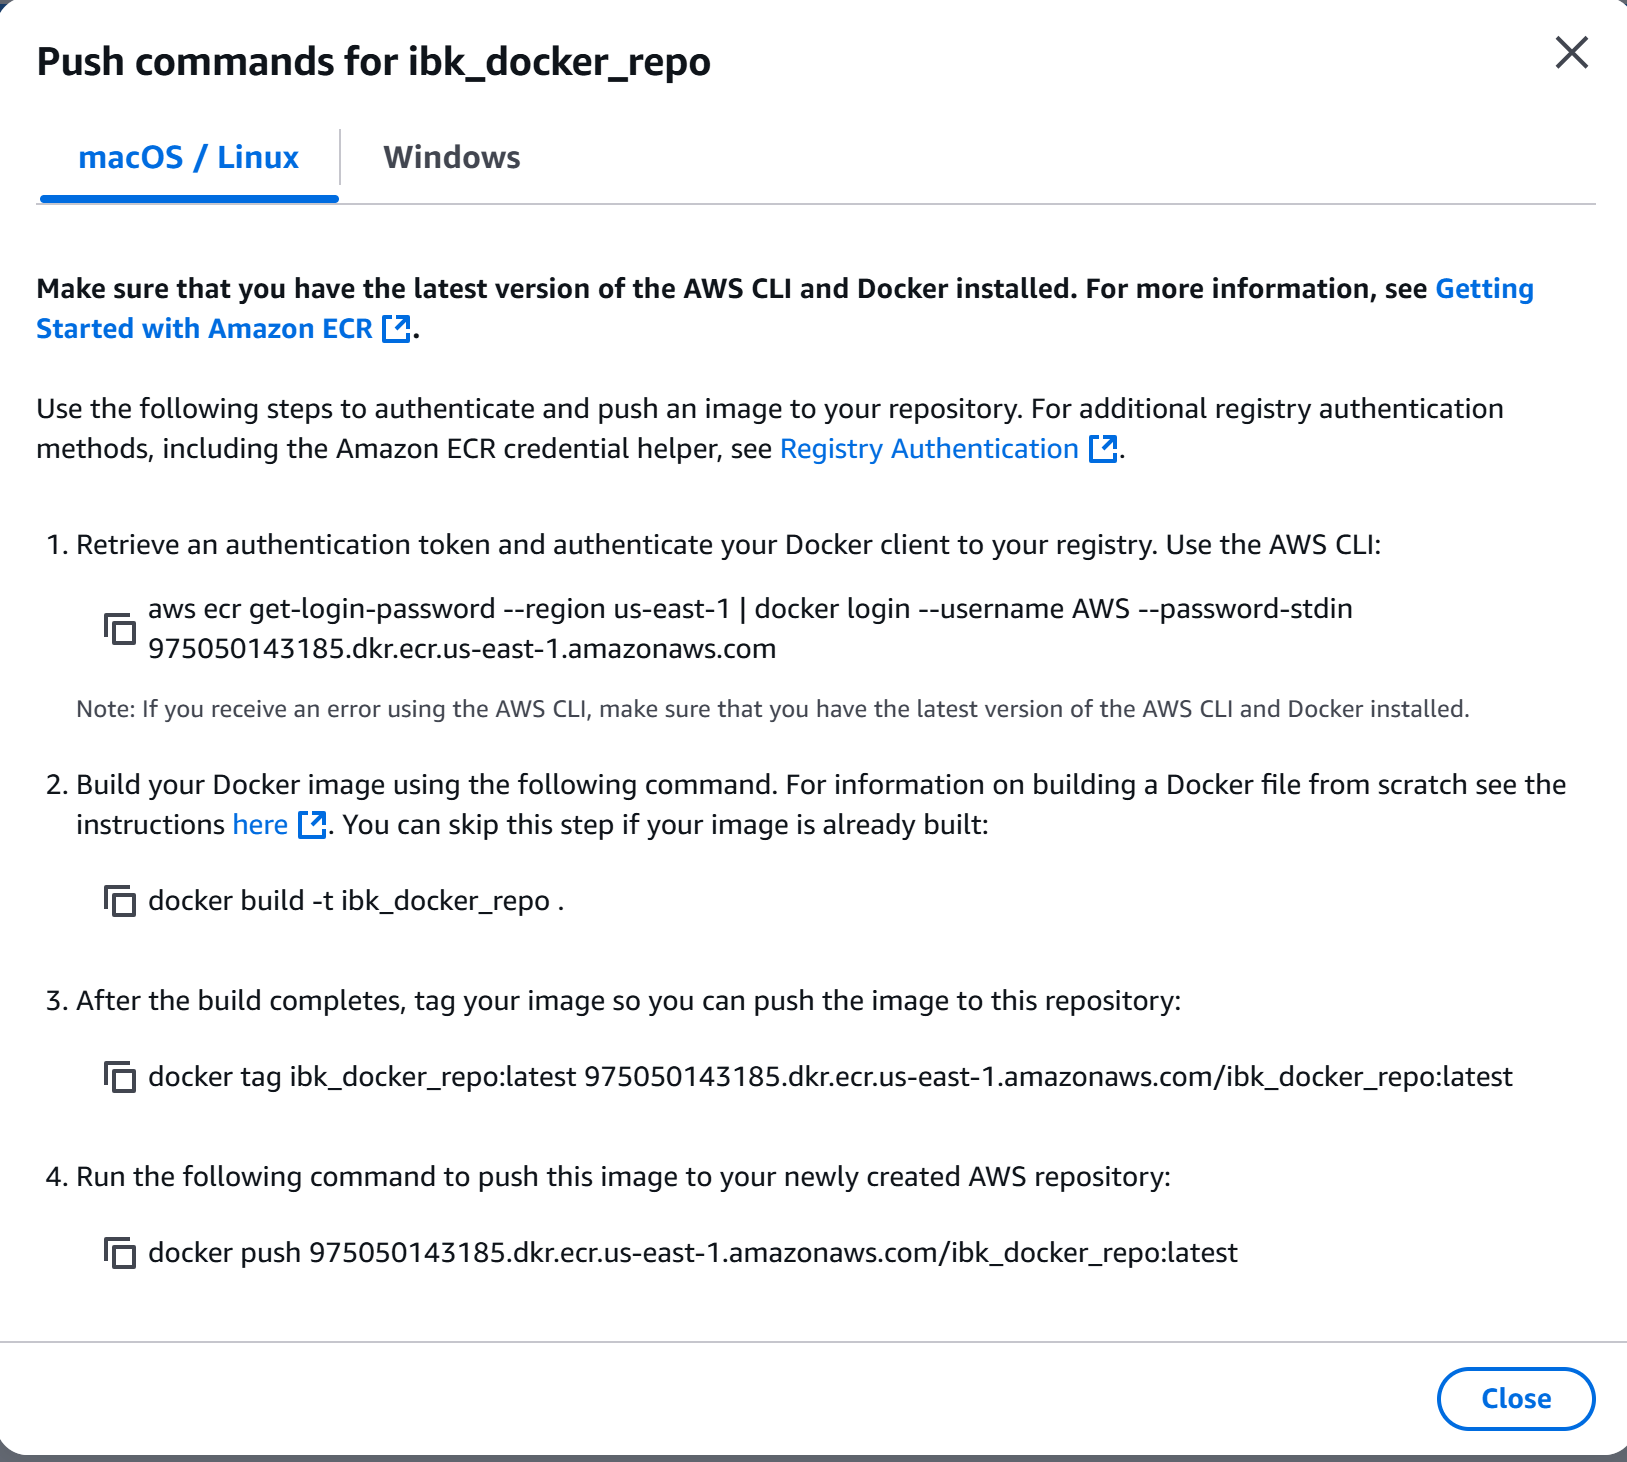
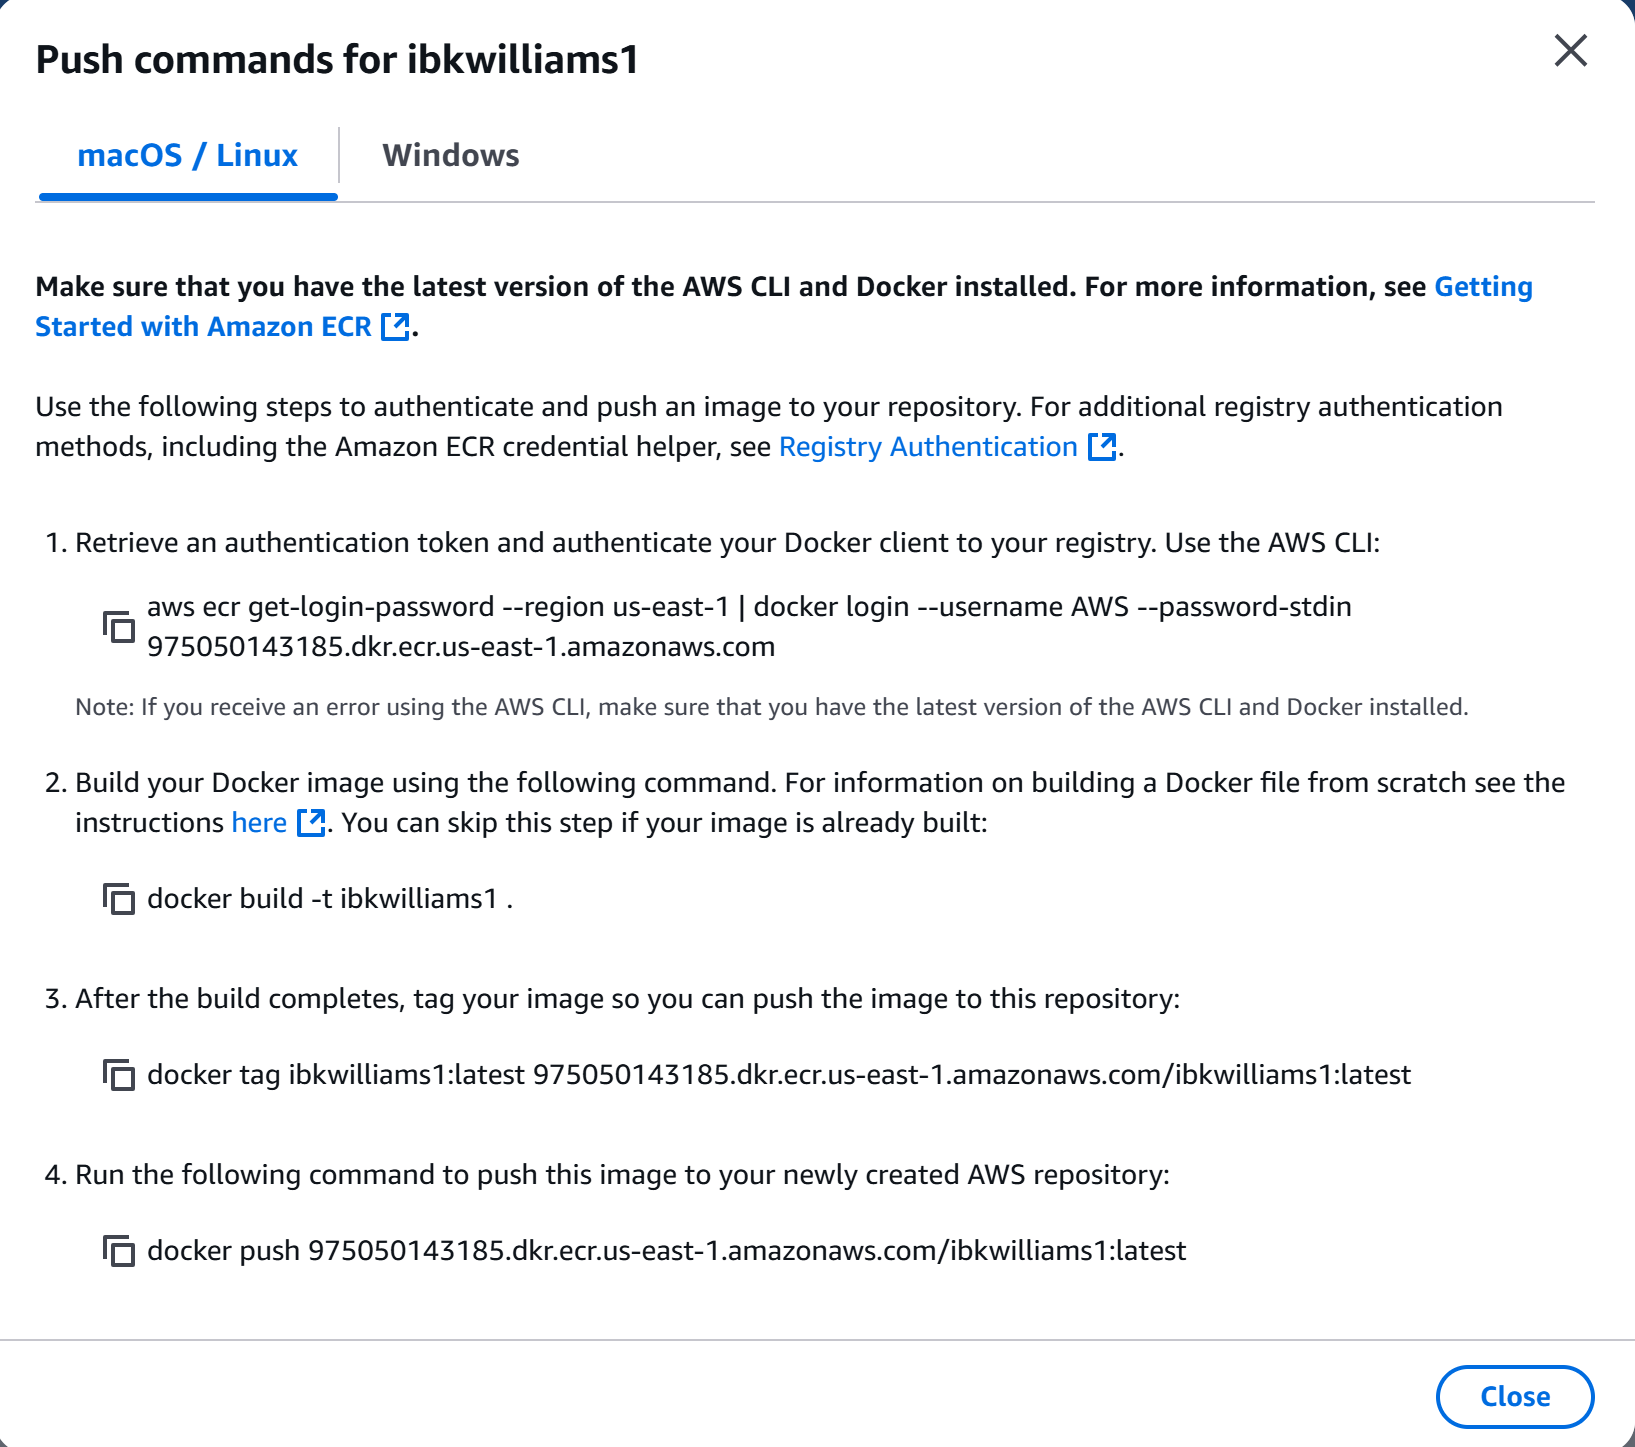
Dockerizing Node.js, Java and Golang app with best Pratices

diff --git a/README.md b/README.md
@@ -89,7 +89,8 @@ Use SSH to connect to your instance:
 ```bash
 ssh -i /path/to/your-key.pem ubuntu@<instance-public-ip>
 ```
-
+![instance_connect](images/instance_connect.png)
+![alt text](images/instance_terminal.png)
 ---
 
 ### **2. Set Up the Ubuntu Instance**
@@ -110,11 +111,12 @@ sudo apt update && sudo apt upgrade -y
    sudo systemctl start docker
    sudo systemctl enable docker
    ```
+   ![verify_docker](images/docker_enable.png)
 3. Verify Docker installation:
    ```bash
    docker --version
    ```
-
+    ![alt text](images/docker_verified.png)
 #### **Step 2.3: Install Docker Compose (Optional)**
 If needed, install Docker Compose:
 ```bash
@@ -135,54 +137,62 @@ npm -v
 ---
 
 ### **3. Prepare the Node.js Application**
+1. Create folder containing the application
+![node_folder](images/nodejs_folder.png)
+``cd`` into the application folder and create ```index.js```
+Paste the application code into the ```index.js```
+```script
+// index.js
+const http = require('http');
 
-#### **Step 3.1: Clone or Upload Your Application**
-Clone your Node.js application repository from GitHub or upload it to the instance:
-```bash
-git clone <your-repo-url> node-app
-cd node-app
+const server = http.createServer((req, res) => {
+    res.writeHead(200, {'Content-Type': 'text/plain'});
+    res.end('Hello sir, williams node container running!\n');
+});
+
+const PORT = 5000;
+server.listen(PORT, () => {
+    console.log(`Server running on port ${PORT}`);
+});
 ```
 
-#### **Step 3.2: Test the Application**
-1. Install dependencies:
-   ```bash
-   npm install
-   ```
 2. Start the application locally:
    ```bash
-   node app.js
+   node index.js
    ```
+    ![runing_node](images/running_node_app.png)
 3. Verify it's working by accessing the instance’s public IP and port in a browser:
    ```
    http://<instance-public-ip>:5000
    ```
-
+    ![alt text](images/running_node_onbrowser.png)
 ---
 
 ### **4. Write the Dockerfile**
 
 Create a `Dockerfile` in the Node.js application root directory:
 ```Dockerfile
-# Use an official Node.js runtime as the base image
-FROM node:18
+# Use the official Node.js image as the base
+FROM node:22-alpine
 
-# Set the working directory inside the container
-WORKDIR /app
+# Set the working directory
+WORKDIR /usr/src/app
 
-# Copy package.json and package-lock.json
+# Copy package.json and package-lock.json / copying the json package into the root folder of the container
 COPY package*.json ./
 
-# Install dependencies
-RUN npm install
+# Install dependence
+RUN npm ci --only=production
 
-# Copy the rest of the application
+
+# Copy application code /copying all the source code to the container root directory
 COPY . .
 
 # Expose the application port
 EXPOSE 5000
 
-# Define the command to run the application
-CMD ["node", "app.js"]
+# Start the application
+CMD ["node", "index.js"]
 ```
 
 ---
@@ -192,21 +202,21 @@ CMD ["node", "app.js"]
 #### **Step 5.1: Build the Docker Image**
 Run the following command in the application directory:
 ```bash
-docker build -t node-app:latest .
+sudo docker build -t node-app:latest .
 ```
-
+![building node-app images](<images/node-app docker-build.gif>)
 #### **Step 5.2: Run the Docker Container**
 Run the container and map port `5000` of the container to port `5000` on the host:
 ```bash
-docker run -d -p 5000:5000 node-app:latest
+sudo docker run -d -p 5000:5000 node-app:latest
 ```
-
+![alt text](images/docker_images.png)
 #### **Step 5.3: Verify the Application**
 Open your browser and access:
 ```
 http://<instance-public-ip>:5000
 ```
-
+![alt text](images/container_running.png)
 ---
 
 ### **6. Push the Docker Image to Docker Hub**
@@ -214,71 +224,200 @@ http://<instance-public-ip>:5000
 #### **Step 6.1: Log in to Docker Hub**
 Log in using your Docker Hub credentials:
 ```bash
-docker login
+sudo docker login
 ```
+Enter your Docker Hub username and password when prompted.
+
+![alt text](images/dockerhub_login.png)
 
 #### **Step 6.2: Tag the Docker Image**
 Tag the image with your Docker Hub username:
+Docker Hub requires images to be tagged with your ```username/repository-name```.
+
 ```bash
-docker tag node-app:latest your-dockerhub-username/node-app:latest
+sudo sudo docker tag node-app:latest your-dockerhub-username/node-app:latest
 ```
+![alt text](images/tag_images.png)
 
 #### **Step 6.3: Push the Image**
 Push the image to your Docker Hub repository:
 ```bash
-docker push your-dockerhub-username/node-app:latest
+sudo docker push your-dockerhub-username/node-app:v1.00
 ```
+![alt text](images/docker_push.png)
 
+Your image will now be available on Docker Hub.
+Verify the Image on Docker Hub:
+Log in to your Docker Hub account via the web interface to ensure the image is uploaded.
+
+![alt text](images/docker_hub.png)
 ---
 
 ### **7. Push the Docker Image to AWS ECR**
+To Push to Amazon ECR
+####  **1.    First, Set Up AWS CLI:**
+-   Install and configure the AWS CLI with your credentials:
+  Run the following command to download the zipped files of awscli
+    ```bash
+    curl "https://awscli.amazonaws.com/awscli-exe-linux-x86_64.zip" -o "awscliv2.zip"
+    ```
+    ![alt text](images/cli-step1.png)
+    ![alt text](images/cli-step2.png)
+    TO unzip the awscliv2.zip file; install unzip with the following command
+    ```bash
+    sudo apt install unzip -y
+    ```
+    Run the unzip command:
+    ```bash
+    unzip awscliv2.zip
+    ```
+    Run the following command to install the awscl
+    ```bash
+    sudo ./aws/install
+    ```
+    once you run the above command, you should get:
+    ![alt text](images/cli-step3.png)
+    ![alt text](images/cli-step4.png)
+![alt text](images/aws_access_key_generation-VEED.gif)
+    ```bash
+    aws configure
+    ```
+    ![alt text](images/aws_configure_detail.png)
+-   Provide your AWS access key, secret key, region, and output format from the downloaded access key.csv file
+####  **2.    Create an ECR Repository:**
+Follow the instructions for creating an ECR repository
+![alt text](images/ECR_CREATED.gif)
+
+```bash
+    aws configure
+ ```
+
 
 #### **Step 7.1: Authenticate Docker to AWS ECR**
 Get the ECR login command and authenticate:
+![alt text](images/push_command_AWS_ECR.png)
 ```bash
-aws ecr get-login-password --region <your-region> | docker login --username AWS --password-stdin <aws-account-id>.dkr.ecr.<your-region>.amazonaws.com
+aws ecr get-login-password --region us-east-1 | docker login --username AWS --password-stdin 975050143185.dkr.ecr.us-east-1.amazonaws.com
 ```
-
+![alt text](images/ECR_AUTHENTICATION.png)
 #### **Step 7.2: Tag the Docker Image**
 Tag the Docker image for your ECR repository:
 ```bash
-docker tag node-app:latest <aws-account-id>.dkr.ecr.<your-region>.amazonaws.com/node-app:latest
+docker tag ibkwilliams1:latest 975050143185.dkr.ecr.us-east-1.amazonaws.com/ibkwilliams1:1.0.0
 ```
 
+![alt text](images/image_4_ECR.png)
 #### **Step 7.3: Push the Image to ECR**
 Push the image to your ECR repository:
 ```bash
-docker push <aws-account-id>.dkr.ecr.<your-region>.amazonaws.com/node-app:latest
+docker push 975050143185.dkr.ecr.us-east-1.amazonaws.com/ibkwilliams1:1.0.0
 ```
 
+The image is pushed to the ECR repository
+![alt text](images/image_pushed_complete.png)
+
+![alt text](images/image_pushed_shown.png)
 ---
 
 ### **8. Run the Container from ECR**
 
 1. Pull the image from ECR:
    ```bash
-   docker pull <aws-account-id>.dkr.ecr.<your-region>.amazonaws.com/node-app:latest
+   docker pull 975050143185.dkr.ecr.us-east-1.amazonaws.com/ibkwilliams1:1.0.0
    ```
 2. Run the container:
+   To run the container in detached mode and expose it at port 3000, you can use the following docker run command:
    ```bash
-   docker run -d -p 5000:5000 <aws-account-id>.dkr.ecr.<your-region>.amazonaws.com/node-app:latest
+   docker run -d -p 3000:3000 975050143185.dkr.ecr.us-east-1.amazonaws.com/ibkwilliams1:1.0.0
    ```
+### Explanation:
+- `-d`: Runs the container in detached mode (in the background).
+- `-p 3000:3000`: Maps port `3000` on your local machine to port `3000` inside the container.
+- The image `975050143185.dkr.ecr.us-east-1.amazonaws.com/ibkwilliams1:1.0.0` is used to create the container.
+Before running this, ensure the image is pulled locally with the `docker pull` command if it isn’t already.
+---
+### **9. How to apply a lifecycle Policy on ECR Repository**
+#####   Step 1: Ensure AWS CLI is Installed and Configured
+
+1. Install the AWS CLI if not already installed:
+ ```bash
+   curl "https://awscli.amazonaws.com/awscli-exe-linux-x86_64.zip" -o "awscliv2.zip"
+unzip awscliv2.zip
+sudo ./aws/install
+```
+(For Windows, use the appropriate installer)
+
+2. Configure AWS CLI with your credentials:
+   
+```bash
+   aws configure
+```
+Provide your Access Key, Secret Key, Default Region, and Output Format.
 
 ---
 
-### **9. Automate Deployment (Optional)**
-
-- Use **Docker Compose** for multi-container setups.
-- Use **AWS ECS** for orchestrating Docker containers.
-
+##### Step 2: Save the Lifecycle Policy File
+Save the provided lifecycle policy to a file called lifecycle.json:
+```bash
+nano lifecycle.json
+```
+Paste the JSON content into the file and save it.
+```json
+{
+  "rules": [
+    {
+      "rulePriority": 1,
+      "description": "Retain only the 3 most recent tagged images",
+      "selection": {
+        "tagStatus": "tagged",
+        "countType": "imageCountMoreThan",
+        "countNumber": 3
+      },
+      "action": {
+        "type": "expire"
+      }
+    },
+    {
+      "rulePriority": 2,
+      "description": "Delete all untagged images",
+      "selection": {
+        "tagStatus": "untagged",
+        "countType": "imageCountMoreThan",
+        "countNumber": 0
+      },
+      "action": {
+        "type": "expire"
+      }
+    }
+  ]
+}
+```
 ---
 
-This step-by-step guide covers everything from preparing the AWS Ubuntu instance to deploying the Node.js application in a Docker container. Let me know if you need help automating these steps or setting up CI/CD pipelines!
-#### Steps to Dockerize a Node.js Application
-- Example file structure of node.js application
-```go
-node-app/
-├── app.js
-├── package.json
-└── package-lock.json
+#####   Step 3: Apply the Lifecycle Policy to the ECR Repository
+Use the following AWS CLI command to apply the lifecycle policy to your repository:
+```bash
+aws ecr put-lifecycle-policy \
+  --repository-name ibkwilliams1 \
+  --lifecycle-policy-text file://lifecycle.json
+```
+---
+##### Step 4: Verify the Lifecycle Policy
+Confirm the lifecycle policy has been applied successfully:
+
+```bash
+aws ecr get-lifecycle-policy --repository-name ibkwilliams1
+```
+---
+##### Step 5: List Images in the Repository
+Check which images are currently stored in your repository:
+
+```bash
+aws ecr list-images --repository-name ibkwilliams1
+```
+---
+##### Step 6: Test Expiration
+The expiration process runs automatically in the background, but you can manually initiate it for testing purposes using:
+```bash
+aws ecr start-image-scan --repository-name ibkwilliams1 --image-id imageTag=1.0.0
 ```
